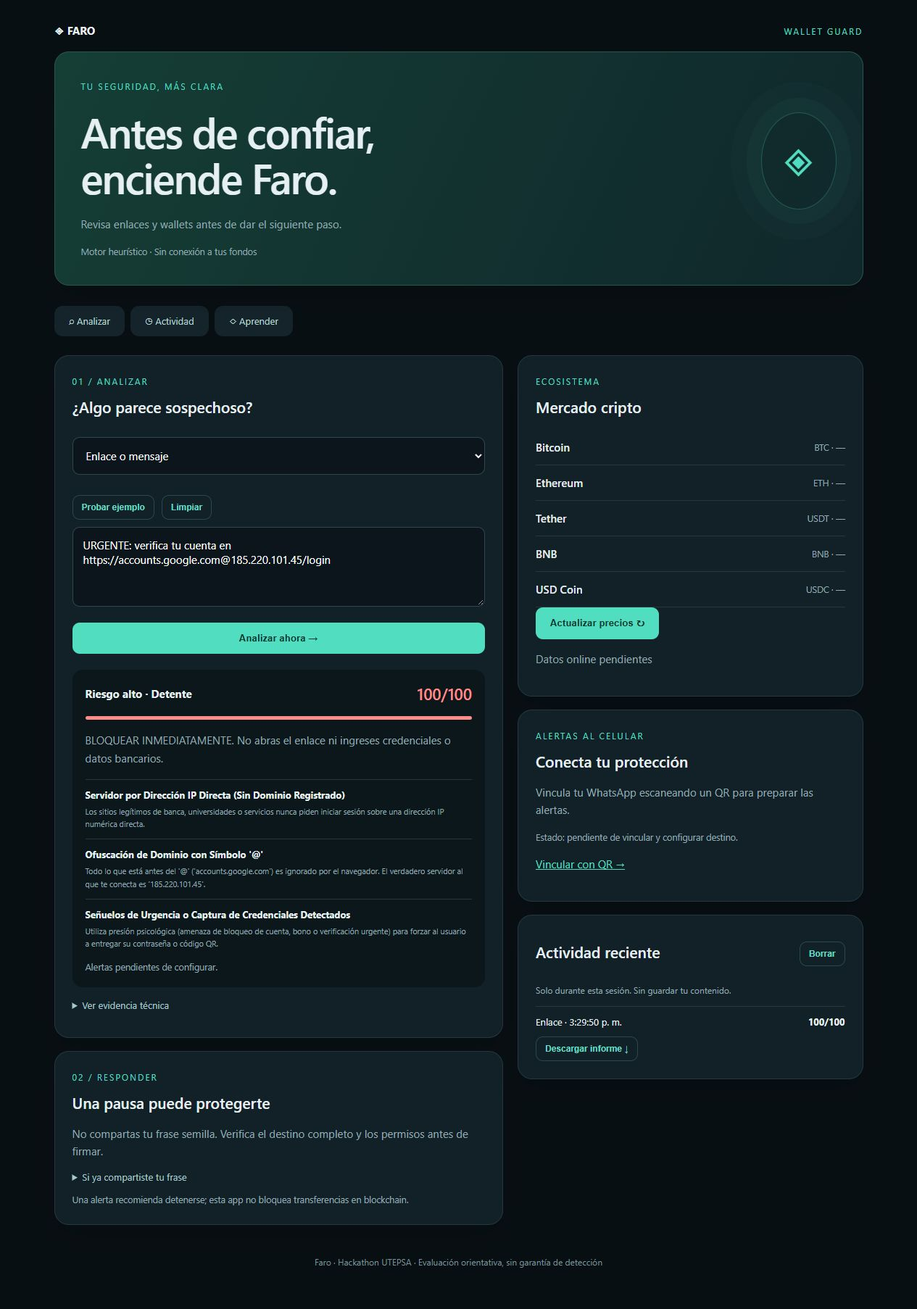
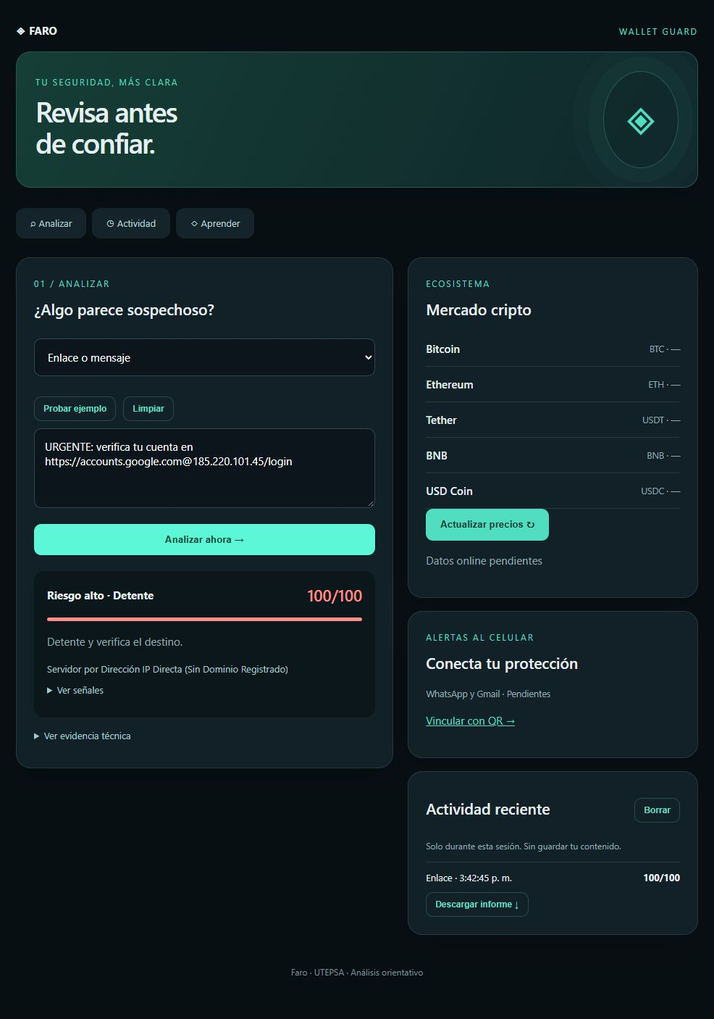
Simplify analysis UI, add learning section and correct risk validation

diff --git a/static/faro.html b/static/faro.html
@@ -1,1 +1,1 @@
-<!doctype html><html lang="es"><meta charset="utf-8"><meta name="viewport" content="width=device-width,initial-scale=1"><title>Faro · Protección cripto</title><link rel="stylesheet" href="/static/faro.css"><style>*{box-sizing:border-box}body{margin:0;background:#080f13;color:#e6f0f2;font:15px system-ui}main{max-width:1050px;margin:auto;padding:32px 22px}header,nav,.row{display:flex;justify-content:space-between;align-items:center;gap:16px}small,p{color:#94aab2;line-height:1.6}h1{font-size:42px;font-weight:500;letter-spacing:-2px}h2{font-size:21px;font-weight:500}.tag{color:#51ddc0;font-size:12px;letter-spacing:2px}.grid{display:grid;grid-template-columns:1.3fr 1fr;gap:20px}.card{background:#122028;border:1px solid #263740;border-radius:20px;padding:24px;margin:18px 0}.hero{background:#12342f}textarea,input,select{width:100%;background:#0b151b;border:1px solid #30464e;border-radius:10px;color:white;padding:14px;margin:10px 0;font:inherit}button{border:0;border-radius:10px;padding:14px 20px;background:#51ddc0;color:#07372f;font-weight:600;cursor:pointer}button:disabled{opacity:.5}nav a{color:#93aeb7;text-decoration:none;font-size:13px}#result{white-space:pre-wrap;line-height:1.7}.coin{padding:14px 0;border-bottom:1px solid #263740}.orb{font-size:55px;color:#51ddc0}footer{padding:25px;text-align:center;color:#7b929a;font-size:12px}@media(max-width:650px){.grid{grid-template-columns:1fr}h1{font-size:34px}main{padding:22px 16px}}</style><main><header><b>◈ FARO</b><span class="tag">WALLET GUARD</span></header><section class="card hero"><div class="row"><div><span class="tag">TU SEGURIDAD, MÁS CLARA</span><h1>Antes de confiar,<br>enciende Faro.</h1><p>Revisa enlaces y wallets antes de dar el siguiente paso.</p></div><span class="orb">◈</span></div><small>Motor heurístico · Sin conexión a tus fondos</small></section><nav class="tabs" aria-label="Navegación"><a href="#analysis">⌕ Analizar</a><a href="#activity">◷ Actividad</a><a href="#learn">◇ Aprender</a></nav><div class="grid"><section><div class="card" id="analysis"><span class="tag">01 / ANALIZAR</span><h2>¿Algo parece sospechoso?</h2><select id="mode" aria-label="Tipo de análisis"><option value="url">Enlace o mensaje</option><option value="wallet">Wallet o contenido de QR</option></select><div class="examples"><button type="button" id="example">Probar ejemplo</button><button type="button" id="clear">Limpiar</button></div><textarea maxlength="12000" id="content" rows="4" placeholder="Pega aquí el mensaje, enlace o dirección" aria-label="Contenido a analizar"></textarea><input hidden id="trusted" placeholder="Wallet de referencia (opcional)" aria-label="Wallet de referencia"><button id="run">Analizar ahora →</button><section id="resultbox" class="resultbox"><div class="row"><b id="risklabel">Listo para revisar</b><span id="score">—</span></div><div class="meter"><i id="bar"></i></div><p id="result" role="status">Pega un contenido y descubre sus señales de riesgo.</p><div id="findings"></div></section><details><summary>Ver evidencia técnica</summary><pre id="detail" style="white-space:pre-wrap;overflow-wrap:anywhere"></pre></details></div><div class="card" id="learn"><span class="tag">02 / RESPONDER</span><h2>Una pausa puede protegerte</h2><p>No compartas tu frase semilla. Verifica el destino completo y los permisos antes de firmar.</p><details><summary>Si ya compartiste tu frase</summary><p>Desde un dispositivo confiable, crea una nueva wallet y transfiere los activos restantes. Busca soporte oficial y conserva las pruebas.</p></details><small>Una alerta recomienda detenerse; esta app no bloquea transferencias en blockchain.</small></div></section><aside><div class="card"><span class="tag">ECOSISTEMA</span><h2>Mercado cripto</h2><div id="coins"></div><button id="refresh">Actualizar precios ↻</button><p id="market" role="status">Datos online pendientes</p></div><div class="card"><span class="tag">ALERTAS AL CELULAR</span><h2>Conecta tu protección</h2><p>Vincula tu WhatsApp escaneando un QR para preparar las alertas.</p><small>Estado: pendiente de vincular y configurar destino.</small><p><a href="/whatsapp" style="color:#51ddc0">Vincular con QR →</a></p><small></small></div><div class="card" id="activity"><div class="row"><h2>Actividad reciente</h2><button id="erase" class="quiet">Borrar</button></div><p class="hint">Solo durante esta sesión. Sin guardar tu contenido.</p><div id="history"><p>Aún no hay análisis.</p></div><button id="export" class="quiet" disabled>Descargar informe ↓</button></div></aside></div><footer>Faro · Hackathon UTEPSA · Evaluación orientativa, sin garantía de detección</footer></main><script src="/static/faro.js"></script></html>
+<!doctype html><html lang="es"><meta charset="utf-8"><meta name="viewport" content="width=device-width,initial-scale=1"><title>Faro · Protección cripto</title><link rel="stylesheet" href="/static/faro.css"><style>*{box-sizing:border-box}body{margin:0;background:#080f13;color:#e6f0f2;font:15px system-ui}main{max-width:1050px;margin:auto;padding:32px 22px}header,nav,.row{display:flex;justify-content:space-between;align-items:center;gap:16px}small,p{color:#94aab2;line-height:1.6}h1{font-size:42px;font-weight:500;letter-spacing:-2px}h2{font-size:21px;font-weight:500}.tag{color:#51ddc0;font-size:12px;letter-spacing:2px}.grid{display:grid;grid-template-columns:1.3fr 1fr;gap:20px}.card{background:#122028;border:1px solid #263740;border-radius:20px;padding:24px;margin:18px 0}.hero{background:#12342f}textarea,input,select{width:100%;background:#0b151b;border:1px solid #30464e;border-radius:10px;color:white;padding:14px;margin:10px 0;font:inherit}button{border:0;border-radius:10px;padding:14px 20px;background:#51ddc0;color:#07372f;font-weight:600;cursor:pointer}button:disabled{opacity:.5}nav a{color:#93aeb7;text-decoration:none;font-size:13px}#result{white-space:pre-wrap;line-height:1.7}.coin{padding:14px 0;border-bottom:1px solid #263740}.orb{font-size:55px;color:#51ddc0}footer{padding:25px;text-align:center;color:#7b929a;font-size:12px}@media(max-width:650px){.grid{grid-template-columns:1fr}h1{font-size:34px}main{padding:22px 16px}}</style><main><header><b>◈ FARO</b><span class="tag">WALLET GUARD</span></header><section class="card hero"><div class="row"><div><span class="tag">TU SEGURIDAD, MÁS CLARA</span><h1>Revisa antes<br>de confiar.</h1></div><span class="orb">◈</span></div></section><nav class="tabs" aria-label="Navegación"><a href="#analysis" data-view="main">⌕ Analizar</a><a href="#activity" data-view="main">◷ Actividad</a><a href="#learn" data-view="learn">◇ Aprender</a></nav><div class="grid"><section><div class="card" id="analysis"><span class="tag">01 / ANALIZAR</span><h2>¿Algo parece sospechoso?</h2><select id="mode" aria-label="Tipo de análisis"><option value="url">Enlace o mensaje</option><option value="wallet">Wallet o contenido de QR</option></select><div class="examples"><button type="button" id="example">Probar ejemplo</button><button type="button" id="clear">Limpiar</button></div><textarea maxlength="12000" id="content" rows="4" placeholder="Pega aquí el mensaje, enlace o dirección" aria-label="Contenido a analizar"></textarea><input hidden id="trusted" placeholder="Wallet de referencia (opcional)" aria-label="Wallet de referencia"><button id="run">Analizar ahora →</button><section id="resultbox" class="resultbox"><div class="row"><b id="risklabel">Listo para revisar</b><span id="score">—</span></div><div class="meter"><i id="bar"></i></div><p id="result" role="status">Tu resultado aparecerá aquí.</p><div id="primary-signal"></div><details><summary>Ver señales</summary><div id="findings"></div></details></section><details><summary>Ver evidencia técnica</summary><pre id="detail" style="white-space:pre-wrap;overflow-wrap:anywhere"></pre></details></div></section><aside><div class="card"><span class="tag">ECOSISTEMA</span><h2>Mercado cripto</h2><div id="coins"></div><button id="refresh">Actualizar precios ↻</button><p id="market" role="status">Datos online pendientes</p></div><div class="card"><span class="tag">ALERTAS AL CELULAR</span><h2>Conecta tu protección</h2><small>WhatsApp y Gmail · Pendientes</small><p><a href="/whatsapp" style="color:#51ddc0">Vincular con QR →</a></p><small></small></div><div class="card" id="activity"><div class="row"><h2>Actividad reciente</h2><button id="erase" class="quiet">Borrar</button></div><p class="hint">Solo durante esta sesión. Sin guardar tu contenido.</p><div id="history"><p>Aún no hay análisis.</p></div><button id="export" class="quiet" disabled>Descargar informe ↓</button></div></aside></div><section id="learn" hidden><div class="card"><span class="tag">APRENDE A PROTEGERTE</span><h2>Tu wallet, sin misterios</h2><p>Una wallet permite gestionar las claves con las que autorizas operaciones. Tus criptomonedas están registradas en la blockchain; la wallet te permite acceder a ellas.</p><details open><summary>Dirección pública</summary><p>Es el destino que puedes compartir para recibir fondos. Revisa toda la dirección y la red: direcciones parecidas pueden pertenecer a personas distintas.</p></details><details><summary>Frase semilla y clave privada</summary><p>Permiten controlar los activos. No las pegues aquí ni las compartas con supuestos agentes de soporte. Guárdalas fuera de línea y sigue las instrucciones oficiales de tu wallet.</p></details><details><summary>¿Qué es el phishing?</summary><p>Es un engaño para que entregues información o autorices acciones. Puede llegar por correo, chat o un QR. Busca dominios alterados, premios inesperados y mensajes que te presionan.</p><p>En https://google.com@192.0.2.10 el destino real es la dirección después de @. La parte anterior puede ser un señuelo.</p></details><details><summary>¿Qué significa approve?</summary><p>Es un permiso para que un contrato use determinados tokens. Puede ser legítimo. Un permiso ilimitado aumenta la exposición; revisa quién lo recibe y cuánto puede mover. El permiso por sí solo no demuestra robo.</p></details><details><summary>¿Escanear un QR es seguro?</summary><p>Un QR contiene datos; no certifica a su emisor. Vincula WhatsApp solo cuando tú inicias la conexión en un equipo de confianza. Si desconoces el dispositivo, no lo vincules.</p></details><details><summary>Si sospechas una estafa</summary><p>Detente. No firmes ni envíes dinero. Conserva capturas y consulta el soporte oficial. Si compartiste tu frase semilla, busca ayuda oficial para proteger los activos restantes desde un dispositivo confiable.</p></details><details><summary>Qué puede comprobar Faro</summary><p>Faro detecta patrones mediante reglas. No verifica la identidad de cada persona ni garantiza que un enlace o wallet sea seguro. No bloquea transferencias. Un puntaje bajo indica ausencia de señales detectadas, no una certificación.</p></details></div></section><footer>Faro · UTEPSA · Análisis orientativo</footer></main><script src="/static/faro.js"></script></html>

diff --git a/static/faro.js b/static/faro.js
@@ -4,9 +4,11 @@ function node(tag,text,cls){const el=document.createElement(tag);el.textContent=
 assets.forEach(([,name,symbol])=>{let row=node('div','','coin');row.append(node('b',name),node('small',symbol+' · —'));$('coins').append(row)});
 $('mode').onchange=()=>{$('trusted').hidden=$('mode').value!=='wallet';$('content').placeholder=$('mode').value==='wallet'?'Pega la dirección o el contenido del QR':'Pega un enlace o mensaje sospechoso'};
 $('example').onclick=()=>{$('content').value=$('mode').value==='wallet'?'ethereum:0x71C999deadbeef000000000000000000000089A2@1/approve?spender=0xBadDrainer666&uint256=UNLIMITED':'URGENTE: verifica tu cuenta en https://accounts.google.com@185.220.101.45/login';$('content').focus()};
-$('clear').onclick=()=>{$('content').value='';$('trusted').value='';$('content').focus()};
+$('clear').onclick=()=>{$('content').value='';$('trusted').value='';$('findings').replaceChildren();$('primary-signal').textContent='';$('detail').textContent='';$('score').textContent='—';$('bar').style.width='0%';$('risklabel').textContent='Listo para revisar';$('result').textContent='Tu resultado aparecerá aquí.';report=null;$('export').disabled=true;$('content').focus()};
 function renderHistory(){$('history').replaceChildren(...history.map(h=>{let d=node('div','','historyrow');d.append(node('span',h.type+' · '+h.time),node('b',h.score+'/100'));return d}));if(!history.length)$('history').append(node('p','Aún no hay análisis.'))}
 $('erase').onclick=()=>{history=[];report=null;renderHistory();$('export').disabled=true;$('detail').textContent='';$('findings').replaceChildren();$('result').textContent='Actividad e informe borrados.';$('risklabel').textContent='Listo para revisar';$('score').textContent='—';$('bar').style.width='0%'};
-$('run').onclick=async()=>{const text=$('content').value.trim();if(!text){$('result').textContent='Introduce un contenido para revisar.';$('content').focus();return}const wallet=$('mode').value==='wallet';$('run').disabled=true;$('run').textContent='Analizando…';$('result').textContent='Revisando señales de riesgo…';$('findings').replaceChildren();$('detail').textContent='';report=null;$('export').disabled=true;try{const r=await fetch('/api/analyze-'+(wallet?'qr-wallet':'url'),{method:'POST',headers:{'Content-Type':'application/json'},signal:AbortSignal.timeout(20000),body:JSON.stringify(wallet?{payload:text,trusted_wallet:$('trusted').value}:{text})});if(!r.ok)throw Error();const d=await r.json();if(!Number.isFinite(d.risk_score))throw Error();const score=d.risk_score;const color=score>=60?'#ff8c89':score>=25?'#f3c269':'#51ddc0';$('score').textContent=score+'/100';$('score').style.color=color;$('bar').style.width=score+'%';$('bar').style.background=color;$('risklabel').textContent=score>=60?'Riesgo alto · Detente':score>=25?'Requiere revisión':'Sin señales fuertes';$('result').textContent=d.recommendation||'Verifica por un canal oficial antes de continuar.';for(const f of d.indicators||[]){const el=node('div','','finding');el.append(node('b',f.title||f.category||'Señal detectada'),node('small',f.explanation||f.evidence||''));$('findings').append(el)}if(!(d.indicators||[]).length)$('findings').append(node('small','La ausencia de señales no garantiza que sea seguro.'));$('detail').textContent=JSON.stringify(d,null,2);if(score>=60){const states={accepted:'Alerta recibida por n8n; entrega pendiente de verificar.',failed:'No se pudo enviar la alerta a n8n.',not_configured:'Alertas pendientes de configurar.'};$('findings').append(node('small',states[d.notification]||'Alertas pendientes de configurar.'))}report=d;$('export').disabled=false;history.unshift({type:wallet?'Wallet':'Enlace',score,time:new Date().toLocaleTimeString('es-BO')});history=history.slice(0,8);renderHistory()}catch{$('risklabel').textContent='Análisis no disponible';$('score').textContent='—';$('bar').style.width='0%';$('result').textContent='No se pudo completar. Comprueba la conexión y reintenta.'}finally{$('run').disabled=false;$('run').textContent='Analizar ahora →'}};
+$('run').onclick=async()=>{const text=$('content').value.trim();if(!text){$('result').textContent='Introduce un contenido para revisar.';$('content').focus();return}const wallet=$('mode').value==='wallet';$('run').disabled=true;$('run').textContent='Analizando…';$('result').textContent='Revisando señales de riesgo…';$('findings').replaceChildren();$('detail').textContent='';report=null;$('export').disabled=true;try{const r=await fetch('/api/analyze-'+(wallet?'qr-wallet':'url'),{method:'POST',headers:{'Content-Type':'application/json'},signal:AbortSignal.timeout(20000),body:JSON.stringify(wallet?{payload:text,trusted_wallet:$('trusted').value}:{text})});if(!r.ok)throw Error();const d=await r.json();if(!Number.isFinite(d.risk_score))throw Error();const score=d.risk_score;const color=score>=60?'#ff8c89':score>=25?'#f3c269':'#51ddc0';$('score').textContent=score+'/100';$('score').style.color=color;$('bar').style.width=score+'%';$('bar').style.background=color;$('risklabel').textContent=score>=60?'Riesgo alto · Detente':score>=25?'Requiere revisión':'Sin señales fuertes';$('result').textContent=score>=60?'Detente y verifica el destino.':score>=25?'Revisa antes de continuar.':'Sin señales fuertes; verifica igualmente.';$('primary-signal').textContent=d.indicators?.[0]?.title||'';for(const f of d.indicators||[]){const el=node('div','','finding');el.append(node('b',f.title||f.category||'Señal detectada'),node('small',f.explanation||f.evidence||''));$('findings').append(el)}if(!(d.indicators||[]).length)$('findings').append(node('small','La ausencia de señales no garantiza que sea seguro.'));$('detail').textContent=JSON.stringify(d,null,2);if(score>=60){const states={accepted:'Alerta recibida por n8n; entrega pendiente de verificar.',failed:'No se pudo enviar la alerta a n8n.',not_configured:'Alertas pendientes de configurar.'};$('findings').append(node('small',states[d.notification]||'Alertas pendientes de configurar.'))}report=d;$('export').disabled=false;history.unshift({type:wallet?'Wallet':'Enlace',score,time:new Date().toLocaleTimeString('es-BO')});history=history.slice(0,8);renderHistory()}catch{$('risklabel').textContent='Análisis no disponible';$('score').textContent='—';$('bar').style.width='0%';$('result').textContent='No se pudo completar. Comprueba la conexión y reintenta.'}finally{$('run').disabled=false;$('run').textContent='Analizar ahora →'}};
 $('export').onclick=()=>{if(!report)return;const url=URL.createObjectURL(new Blob([JSON.stringify(report,null,2)],{type:'application/json'}));const a=node('a','');a.href=url;a.download='faro-informe.json';a.click();setTimeout(()=>URL.revokeObjectURL(url),1000)};
 $('refresh').onclick=async()=>{$('refresh').disabled=true;$('market').textContent='Consultando…';try{const r=await fetch('https://api.coingecko.com/api/v3/simple/price?ids='+assets.map(a=>a[0]).join(',')+'&vs_currencies=usd',{signal:AbortSignal.timeout(12000)});if(!r.ok)throw Error();const d=await r.json();assets.forEach(([id,,symbol],i)=>{$('coins').children[i].lastChild.textContent=symbol+' · '+(typeof d[id]?.usd==='number'?d[id].usd.toLocaleString('es-BO',{style:'currency',currency:'USD',maximumFractionDigits:2}):'Sin datos')});$('market').textContent='CoinGecko · '+new Date().toLocaleTimeString('es-BO')}catch{$('market').textContent='No se actualizó. El proveedor puede estar sin conexión o limitado.'}finally{$('refresh').disabled=false}};
+
+for(const link of document.querySelectorAll('[data-view]'))link.onclick=()=>{const learn=link.dataset.view==='learn';document.querySelector('.grid').hidden=learn;$('learn').hidden=!learn;document.querySelector('.hero').hidden=learn;};

diff --git a/static/faro.css b/static/faro.css
@@ -1,1 +1,3 @@
 html{scroll-behavior:smooth}body{background:radial-gradient(ellipse at 70% 0,#17342f55,transparent 55%),#080f13}main{max-width:1160px!important}.hero{position:relative;overflow:hidden;padding:36px!important;border-color:#28574c!important;background:linear-gradient(115deg,#153e35,#10272b)!important}.hero h1{font-size:clamp(34px,5vw,58px);line-height:1.08;margin:22px 0}.orb{border:1px solid #51ddc045;border-radius:50%;padding:28px;box-shadow:0 0 0 20px #51ddc008,0 0 0 42px #51ddc005}.tabs{justify-content:flex-start;margin:28px 0 8px;gap:8px}.tabs a{padding:12px 20px;border-radius:12px;background:#14242a;color:#b8d4d4}.tabs a:hover{background:#204439;color:#67eed0}.card{box-shadow:0 14px 35px #0002}.card h2{margin-top:12px}.examples{display:flex;gap:10px;margin-top:18px}.examples button,.quiet{background:transparent;color:#65dec5;border:1px solid #2a4948;padding:9px 12px;font-size:12px}button:hover{filter:brightness(1.12)}button:focus-visible,a:focus-visible,summary:focus-visible{outline:2px solid #71ffe1;outline-offset:4px}textarea:focus,input:focus,select:focus{outline:2px solid #51ddc0;outline-offset:2px}#run{width:100%;margin-top:8px}.resultbox{background:#0c171c;border-radius:14px;padding:18px;margin:22px 0 16px}.meter{height:5px;border-radius:9px;background:#22343b;margin:16px 0;overflow:hidden}.meter i{display:block;height:100%;width:0;transition:width .5s;background:#51ddc0}.finding{padding:12px 0;border-top:1px solid #27373e;font-size:13px}.finding small{display:block;margin-top:6px;overflow-wrap:anywhere}#score{font-size:22px;font-weight:600}.hint{font-size:12px}.coin{display:flex;justify-content:space-between;gap:12px}.coin b{font-weight:500}.historyrow{border-top:1px solid #27373e;padding:12px 0;font-size:13px;display:flex;justify-content:space-between;gap:10px}summary{cursor:pointer;color:#a6c9cd;font-size:13px;margin:12px 0}pre{font-size:12px}#trusted[hidden]{display:none}@media(max-width:650px){.orb{padding:12px;font-size:32px}.hero{padding:24px!important}.tabs{position:sticky;top:0;background:#080f13ee;z-index:2;padding:10px 0}.tabs a{flex:1;text-align:center;padding:12px 8px}.grid{gap:0}.card{padding:20px}}
+
+[hidden]{display:none!important}#primary-signal{font-size:13px;color:#a9c6c8}#learn{max-width:800px;margin:auto}#learn p{font-size:16px;line-height:1.85}#learn summary{font-size:17px;padding:12px 0}.hero h1{margin:10px 0!important;font-size:clamp(30px,4vw,44px)!important}.hero{padding:26px!important}

diff --git a/tests/laboratorio.py b/tests/laboratorio.py
@@ -1,0 +1,41 @@
+"""Casos de laboratorio: no visita los enlaces analizados ni envia alertas reales."""
+import json
+from pathlib import Path
+from unittest.mock import patch, Mock
+from app import app
+
+CASES = [
+ ('Suplantacion con @','url',{'text':'https://accounts.google.com@192.0.2.10/login'},True),
+ ('Urgencia y dominio falso','url',{'text':'URGENTE: tu cuenta sera bloqueada. Verifica tu clave en http://bancounion-seguridad-bo.xyz/login'},True),
+ ('Descarga APK falsa','url',{'text':'Ganaste una beca: instala http://becas-utepsa-bolivia.top/bono.apk'},True),
+ ('Microsoft con cero','url',{'text':'Tu contraseña expira: https://login-micros0ft-office365.support/verify'},True),
+ ('Portal universidad','url',{'text':'https://www.utepsa.edu/v2/'},False),
+ ('Documentacion Microsoft','url',{'text':'https://learn.microsoft.com/es-es/security/'},False),
+ ('GitHub OWASP','url',{'text':'https://github.com/OWASP/Top10'},False),
+ ('Mensaje sin enlace','url',{'text':'Hola, nos vemos mañana en la universidad.'},False),
+ ('Permiso ilimitado','wallet',{'payload':'ethereum:0x1111111111111111111111111111111111111111@1/approve?spender=0x2222222222222222222222222222222222222222&uint256=UNLIMITED'},True),
+ ('Direccion envenenada','wallet',{'payload':'0x71C80000009999888877776666555500000089A2','trusted_wallet':'0x71C845aB912cF40192837465aBcDeF12345689A2'},True),
+ ('Direccion coincidente','wallet',{'payload':'0x71C845aB912cF40192837465aBcDeF12345689A2','trusted_wallet':'0x71C845aB912cF40192837465aBcDeF12345689A2'},False),
+ ('Vinculacion WhatsApp legitima posible','wallet',{'payload':'whatsapp://link-device?token=DEMO'},False),
+ ('Approve limitado no necesariamente fraude','wallet',{'payload':'ethereum:0x1111111111111111111111111111111111111111@1/approve?uint256=1'},False),
+ ('Direccion distinta a referencia','wallet',{'payload':'0x2222222222222222222222222222222222222222','trusted_wallet':'0x1111111111111111111111111111111111111111'},False),
+]
+
+def run():
+ rows=[]
+ with app.test_client() as c, patch.dict('os.environ',{'FARO_N8N_WEBHOOK':'','FARO_N8N_TOKEN':''}):
+  for title,kind,data,expected in CASES:
+   path='/api/analyze-'+('url' if kind=='url' else 'qr-wallet')
+   r=c.post(path,json=data);d=r.get_json();score=d.get('risk_score',0)
+   rows.append({'caso':title,'tipo':kind,'esperado_alerta':expected,'riesgo':score,'alerta_60':score>=60,'coincide':(score>=60)==expected and (score>=25 if title=='Direccion distinta a referencia' else True),'http':r.status_code,'veredicto':d.get('verdict'),'entrada':data})
+  for title,data in [('vacio',{}),('tipo incorrecto',{'text':123})]:
+   r=c.post('/api/analyze-url',json=data);rows.append({'caso':title,'http':r.status_code,'validacion_correcta':r.status_code==400})
+ with app.test_client() as c,patch.dict('os.environ',{'FARO_N8N_WEBHOOK':'https://example.test/hook','FARO_N8N_TOKEN':'demo'}),patch('requests.post',return_value=Mock(status_code=200)) as send:
+  d=c.post('/api/analyze-url',json=CASES[0][2]).get_json()
+  rows.append({'caso':'Webhook simulado','estado':d.get('notification'),'correcto':d.get('notification')=='accepted' and set(send.call_args.kwargs['json'])=={'risk_score','category'}})
+ return rows
+if __name__=='__main__':
+ import logging
+ logging.disable(logging.CRITICAL)
+ rows=run();Path('docs/pruebas-resultados.json').write_text(json.dumps(rows,ensure_ascii=False,indent=2),encoding='utf-8')
+ for r in rows: print(r['caso'],r.get('riesgo',''),r.get('coincide',r.get('validacion_correcta',r.get('correcto'))))

diff --git a/detector_engine.py b/detector_engine.py
@@ -985,7 +985,7 @@ def analyze_qr_and_wallet(payload_input: str, trusted_wallet: str = "") -> Dict[
         action_function = "VINCULAR CUENTA A DISPOSITIVO EXTERNO"
 
     # REGLA 1: Smart Contract Wallet Drainer (approve / setApprovalForAll ilimitado)
-    if re.search(r"(approve|setapprovalforall|unlimited|ffffffffffffffff)", payload, re.IGNORECASE):
+    if re.search(r"(unlimited|ffffffffffffffff|setapprovalforall)", payload, re.IGNORECASE):
         risk_score += 95
         action_function = "APPROVE ILIMITADO (VACIADO DE WALLET)"
         amount_detected = "ILIMITADO (100% de tus fondos / USDT)"
@@ -1021,6 +1021,13 @@ def analyze_qr_and_wallet(payload_input: str, trusted_wallet: str = "") -> Dict[
                 "mitre": "T1036.005 (Address Masquerading)",
             })
 
+    if candidate_addr and trusted and candidate_addr.lower() != trusted.lower() and not poisoning_comparison:
+        risk_score += 25
+        indicators.append({"id": "WAL-MISMATCH", "title": "La dirección no coincide con tu referencia", "explanation": "Confirma el destino completo por un canal oficial.", "severity": "MEDIO"})
+    if re.search(r"approve", payload, re.I) and not re.search(r"unlimited|ffffffffffffffff", payload, re.I):
+        risk_score += 25
+        indicators.append({"id": "WAL-APPROVE", "title": "Permiso de tokens: revisa el límite", "explanation": "Un permiso puede ser legítimo; verifica destinatario y cantidad.", "severity": "MEDIO"})
+
     # REGLA 3: Lista negra de Wallets reportadas por estafa/ransomware
     if candidate_addr and candidate_addr.lower() in BLACKLISTED_WALLETS:
         info = BLACKLISTED_WALLETS[candidate_addr.lower()]
@@ -1048,13 +1055,13 @@ def analyze_qr_and_wallet(payload_input: str, trusted_wallet: str = "") -> Dict[
 
     # REGLA 5: QRLJacking (Robo de sesión vía QR)
     if payload.lower().startswith("whatsapp://") or "link-device" in payload.lower():
-        risk_score += 95
+        risk_score += 25
         indicators.append({
             "id": "QR-SESSION-05",
             "severity": "CRITICO",
-            "title": "Secuestro de Cuenta vía Código QR de Vinculación (QRLJacking)",
+            "title": "Vinculación de dispositivo: confirma que la solicitaste",
             "evidence": payload[:70],
-            "explanation": "El código QR contiene un token para vincular tu cuenta a un navegador remoto del atacante.",
+            "explanation": "Vincula solo un dispositivo de confianza cuando tú iniciaste la conexión. Este patrón por sí solo no prueba fraude.",
             "mitre": "T1185 (Session Hijacking / QRLJacking)",
         })
 
@@ -1066,8 +1073,8 @@ def analyze_qr_and_wallet(payload_input: str, trusted_wallet: str = "") -> Dict[
         verdict = "SOSPECHOSA / VERIFICAR"
         recommendation = "Verifica carácter por carácter la dirección destino antes de confirmar."
     else:
-        verdict = "WALLET / QR VERIFICADO Y SEGURO"
-        recommendation = "La dirección y estructura del QR son legítimas y no presentan permisos ocultos."
+        verdict = "SIN SEÑALES FUERTES DETECTADAS"
+        recommendation = "No se detectaron señales fuertes. Confirma dirección y red antes de continuar."
 
     return {
         "raw_payload": payload,

diff --git a/app.py b/app.py
@@ -139,16 +139,24 @@ def api_get_presets():
 
 @app.route("/api/analyze-url", methods=["POST"])
 def api_analyze_url():
-    data = request.get_json(force=True) or {}
+    data = request.get_json(silent=True)
+    if not isinstance(data, dict):
+        return jsonify(error="Introduce datos válidos"), 400
     text = data.get("text", "")
+    if not isinstance(text, str) or not text.strip() or len(text) > 12000:
+        return jsonify(error="Introduce un mensaje o enlace válido"), 400
     return jsonify(with_notification(analyze_url_and_message(text), "enlace"))
 
 
 @app.route("/api/analyze-qr-wallet", methods=["POST"])
 def api_analyze_qr_wallet():
-    data = request.get_json(force=True) or {}
+    data = request.get_json(silent=True)
+    if not isinstance(data, dict):
+        return jsonify(error="Introduce datos válidos"), 400
     payload = data.get("payload", "")
     trusted_wallet = data.get("trusted_wallet", "")
+    if not isinstance(payload, str) or not payload.strip() or len(payload) > 12000 or not isinstance(trusted_wallet, str):
+        return jsonify(error="Introduce un contenido de wallet válido"), 400
     return jsonify(with_notification(analyze_qr_and_wallet(payload, trusted_wallet), "wallet"))
 
 
@@ -159,7 +167,9 @@ def api_scan_real_wifi():
 
 @app.route("/api/wifi/simulate", methods=["POST"])
 def api_simulate_wifi():
-    data = request.get_json(force=True) or {}
+    data = request.get_json(silent=True)
+    if not isinstance(data, dict):
+        return jsonify(error="Introduce datos válidos"), 400
     scenario_id = data.get("scenario_id", "mitm_arp")
     return jsonify(simulate_wifi_scenario(scenario_id))
 

diff --git a/docs/PRUEBAS.md b/docs/PRUEBAS.md
@@ -1,0 +1,42 @@
+# Pruebas de laboratorio · Faro
+
+Ejecutadas el 31 de octubre de 2026. Catorce casos de clasificación, dos validaciones de entrada y un webhook simulado. Estos casos pequeños no miden precisión general ni garantizan seguridad. Umbral evaluado: alerta desde 60. No se visitaron los enlaces sospechosos ni se enviaron mensajes reales.
+
+| Caso | Riesgo | Coincide con lo esperado |
+| --- | --- | --- |
+| Suplantacion con @ | 95/100 | Sí |
+| Urgencia y dominio falso | 100/100 | Sí |
+| Descarga APK falsa | 100/100 | Sí |
+| Microsoft con cero | 100/100 | Sí |
+| Portal universidad | 0/100 | Sí |
+| Documentacion Microsoft | 0/100 | Sí |
+| GitHub OWASP | 0/100 | Sí |
+| Mensaje sin enlace | 0/100 | Sí |
+| Permiso ilimitado | 95/100 | Sí |
+| Direccion envenenada | 90/100 | Sí |
+| Direccion coincidente | 0/100 | Sí |
+| Vinculacion WhatsApp legitima posible | 95/100 | No |
+| Approve limitado no necesariamente fraude | 95/100 | No |
+| Direccion distinta a referencia | 0/100 | No |
+
+## Hallazgos pendientes
+- Falso positivo: un QR de vinculación de WhatsApp no demuestra por sí mismo secuestro de cuenta, pero recibe 95.
+- Falso positivo: un approve limitado recibe 95; el motor no distingue permiso limitado de ilimitado.
+- Omisión: wallet distinta de la referencia recibe 0 si no coincide en sus extremos. Debería advertir la diferencia sin afirmar necesariamente fraude.
+- El endpoint admite texto vacío y responde 200, aunque la interfaz lo impide.
+- Texto con tipo numérico provoca HTTP 500 en vez de un error de validación 400.
+- El veredicto de riesgo bajo dice seguro/verificado sin que exista verificación externa; es una afirmación demasiado fuerte.
+
+## Alertas
+El webhook se probó con respuesta simulada y recibió únicamente puntaje y categoría. Eso no acredita entrega de Gmail/WhatsApp. Ambas integraciones requieren completar configuración y autorización. La web publicada se evalúa por separado en pruebas-web.json cuando está disponible.
+
+## Repetir localmente
+Desde la raíz en PowerShell:
+```powershell
+$env:PYTHONPATH="."
+python tests/laboratorio.py
+```
+El script genera un informe y deja visibles los casos fallidos; no es una suite que garantice un código de salida fallido ante cada discrepancia. Los escenarios Wi-Fi del motor son independientes de estas pruebas. No se auditó una red real ni se realizaron transferencias blockchain.
+
+## Revisión posterior: interfaz simplificada y correcciones
+Se corrigieron la validación de entradas, el falso positivo de vinculación WhatsApp, la distinción de permisos limitados y la advertencia por direcciones distintas. La referencia distinta exige revisión (25), no una acusación de fraude. Los 14 casos de clasificación, dos validaciones y el webhook simulado coinciden con los criterios revisados; ver pruebas-resultados.json. Se comprobó el ejemplo de phishing desde el navegador en la web publicada: 100/100, recomendación breve y evidencia desplegable. Se verificó también la navegación a Aprender. No se confirmó entrega de WhatsApp/Gmail.
